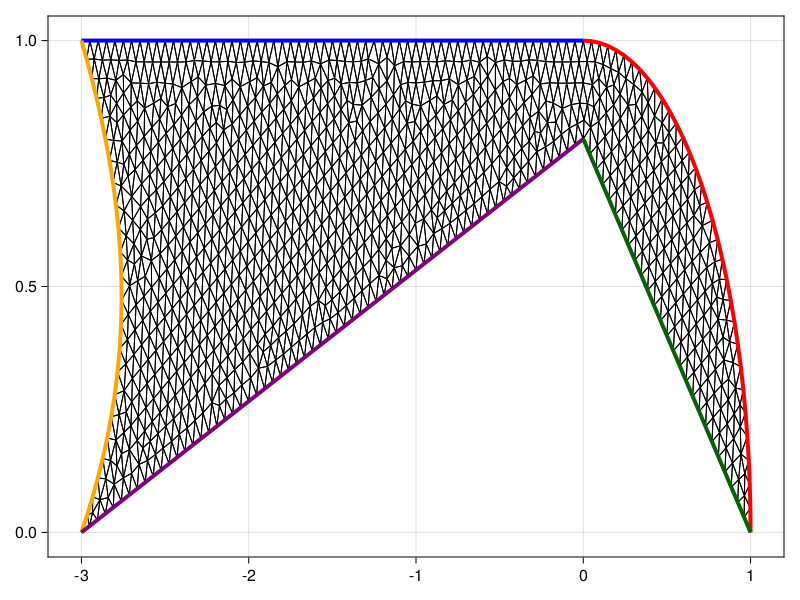
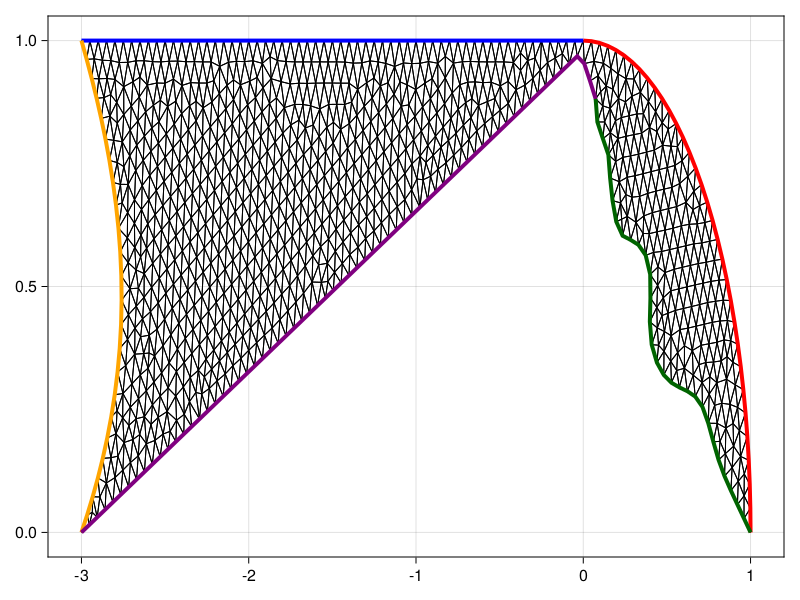
Providing boundary segment as a list of points

Changed region(s): [[0.0938, 0.06, 0.9375, 0.9]]

diff --git a/README.md b/README.md
@@ -156,11 +156,10 @@ y3 = collect(t)
 ## The fourth segment 
 t = LinRange(0, 1, 250)
 x4 = collect(-3.0(1 .- t))
-y4 = collect(0.8t)
+y4 = collect(0.98t)
 ## The fifth segment 
-t = LinRange(0, 1, 250)
-x5 = collect(t)
-y5 = collect(0.8(1 .- t))
+x5 = [0.073914, 0.0797, 0.1522, 0.1522, 0.2, 0.28128, 0.3659, 0.4127, 0.3922, 0.4068, 0.497, 0.631, 0.728, 0.804, 0.888, 1.0]
+y5 = [0.8815, 0.8056, 0.80268, 0.73258, 0.6, 0.598, 0.5777, 0.525, 0.4346, 0.3645, 0.3032, 0.2886, 0.2623, 0.1367, 0.08127, 0.0]
 ## Now combine the vectors 
 x = [x1, x2, x3, x4, x5]
 y = [y1, y2, y3, y4, y5]
